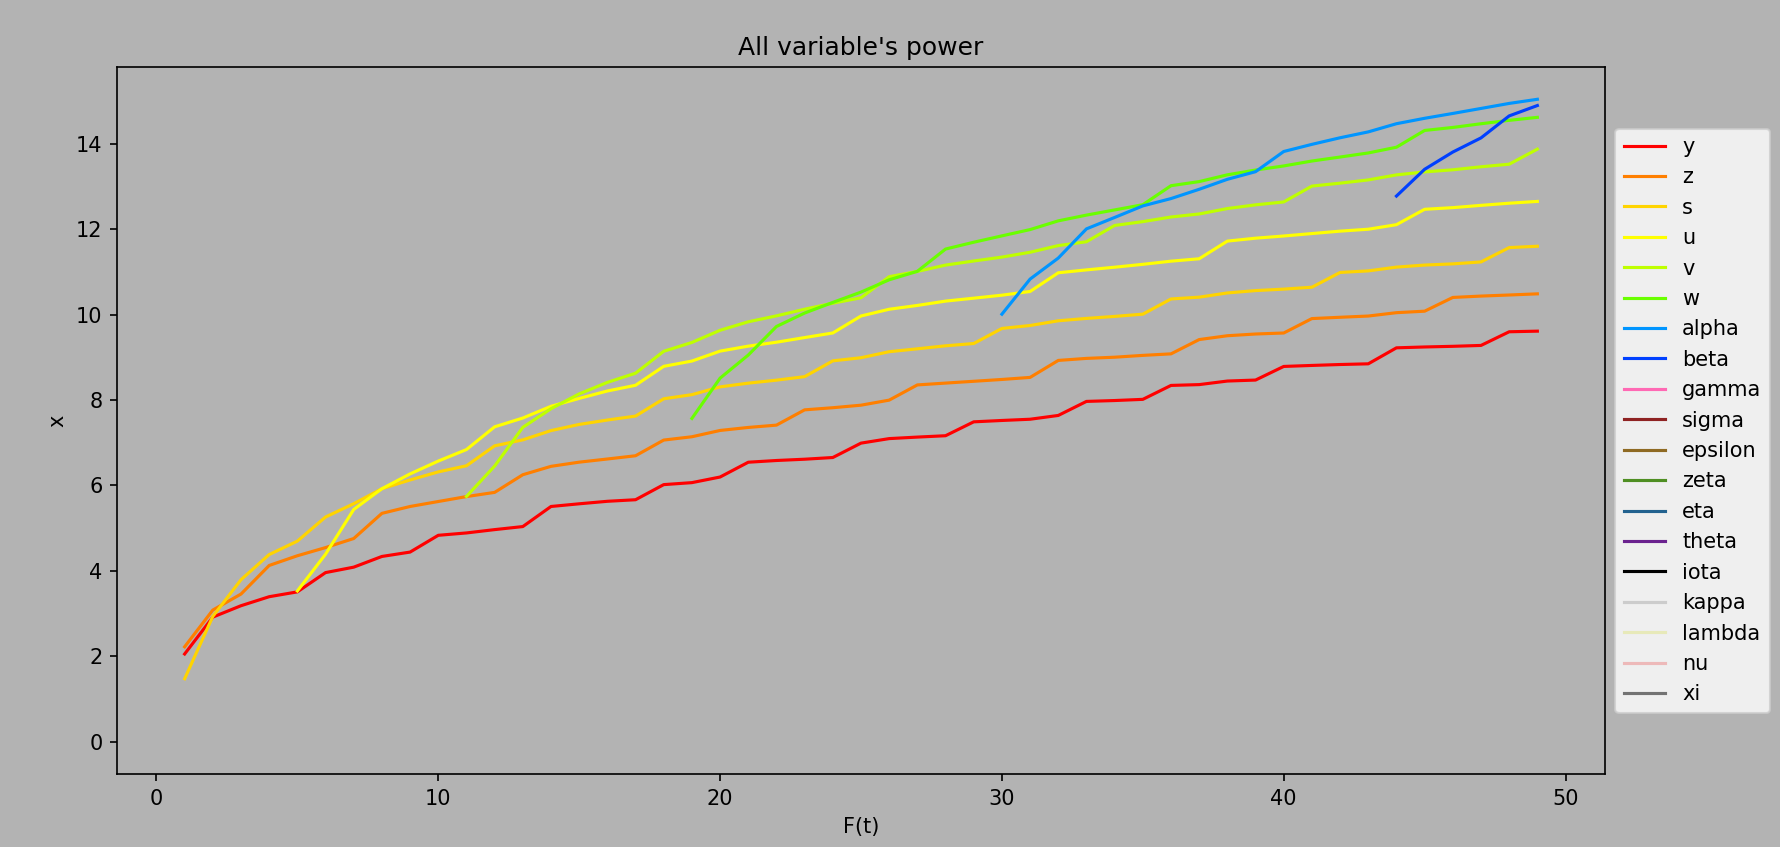
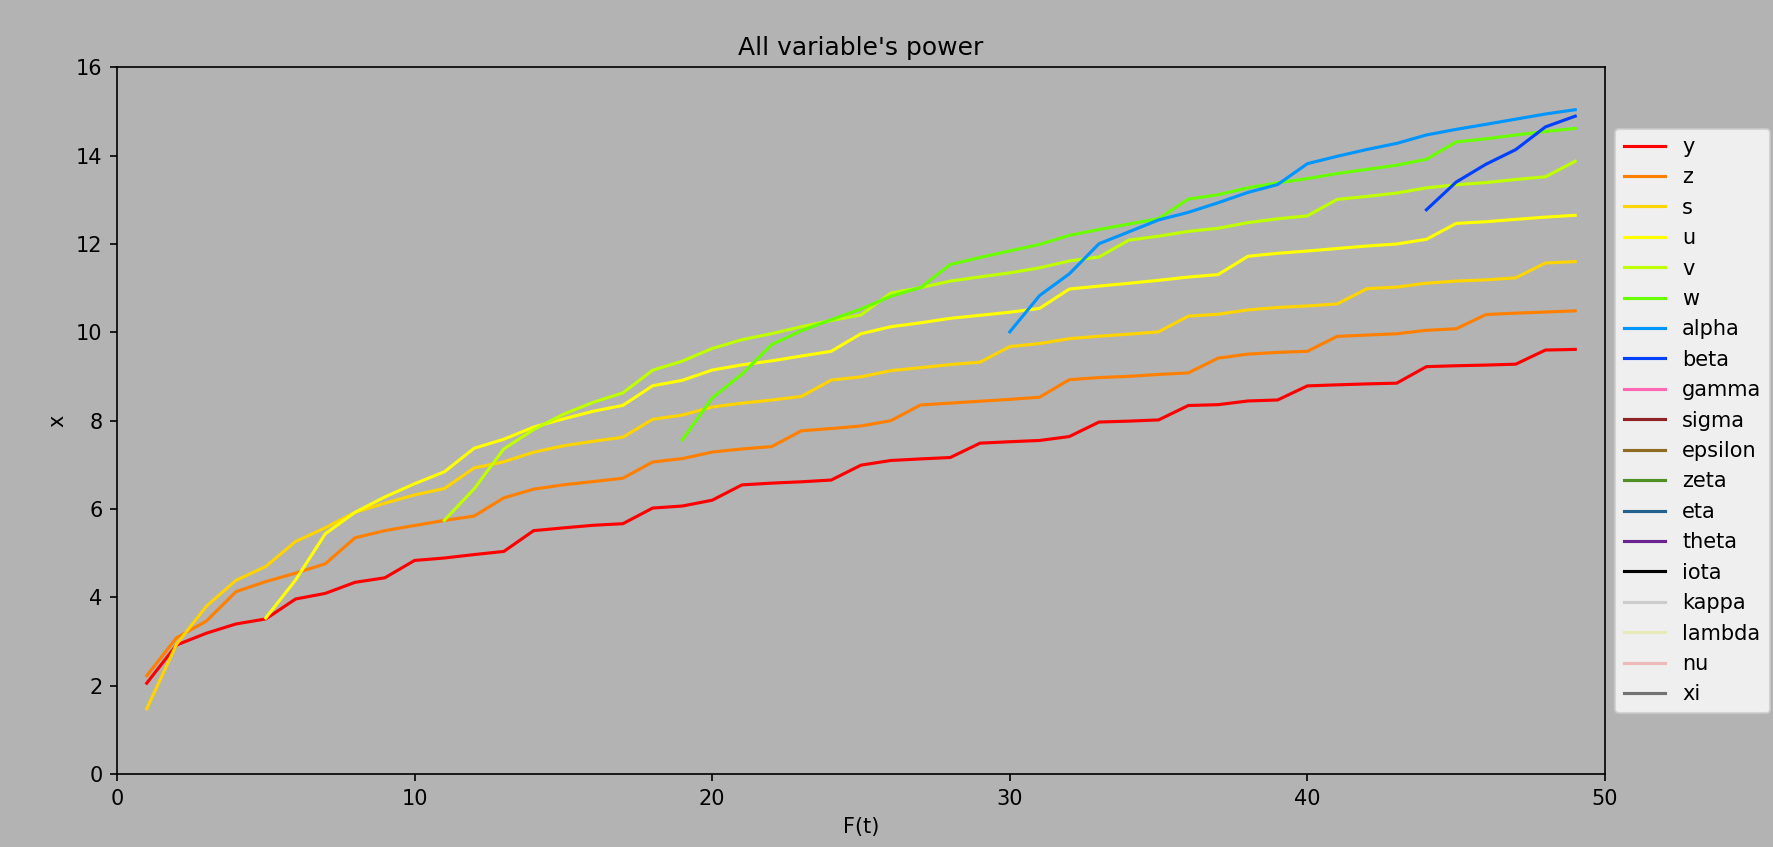
y power variable power section complete

diff --git a/src/view/advanced-concepts/variable-power.md b/src/view/advanced-concepts/variable-power.md
@@ -3,7 +3,7 @@ title: "Visualizing Variable Power Throughout the Game"
 description: "Using graphs to show how the power of variables changes throughout the purchase of y power upgrades, the psi3 upgrades, why we buy y during recovery, and the eventual domination of the y variable."
 author: "spqcey"
 contributors: "the Amazing Community"
-draft: true
+draft: false
 order: 3
 ---
 
@@ -12,7 +12,7 @@ Let's start by defining which variables we're discussing. We will discuss the ma
 We can split the progression through the game into three sections.<br><br>
 The first section, from the start to ee4310, includes the unlocking of all of the variables, which finishes with the unlocking of \\(\xi\\) at ee791. It also includes the purchase of \\(y\\) power upgrades, of which we will discuss more later.<br><br>
 The second section is from ee9160 to ee47362, and is the range when we buy supremacy upgrades known as "psi3" upgrades.<br><br>
-The final section is after ee47362, where we see the title of strongest variable change a few more times before it changes for the final time at ~ee70000.
+The final section is after ee47362, where we see the title of strongest variable change hands a few more times with a final change at ~ee70000.
 
 ### Program
 To visualize the power of each variable throughout the game, I've created a script in Python that can compute the strength of all variables at any given \\(f(t)\\). It does this by simulating the purchase of all of the variable levels it can, stopping when it costs more than can be afforded. It then computes the power the variable has at the level it has. It does this for every variable.<br><br>
@@ -114,17 +114,55 @@ Here's a graph of variable power up to a \\(f(t)\\) of ee50. The initial purchas
 ![Variable power up to ee50](/images/variable-power/ee50.png)
 ###### Computed every ee1 from ee1 to ee50.
 
+And here's a graph with the same \\(f(t)\\) range, but instead of the power of each variable, it graphs the percentage of total power each variable has at any given \\(f(t)\\)
+
+![Percentage variable power up to ee50](/images/variable-power/ee50_2.png)
+###### Computed every ee1 from ee1 to ee50.
+
 And here's a graph of variable power up to the purchase of the final variable at ee791:
 
 ![Variable power up to ee850](/images/variable-power/ee850.png)
 ###### Computed every ee1 from ee1 to ee850.
 
+And the percentage graph:
+
+![Percentage variable power up to ee850](/images/variable-power/ee850_2.png)
+###### Computed every ee1 from ee1 to ee850.
+A bit more spiky ;)
+
 You may be wondering about the abrupt jumps in the power of all of variables. Well, that's what we'll discuss in our next section, about the \\(y\\) power upgrades.
 
 ## y Power Upgrades (ee50 - ee4310)
+After we supremacy for the first time at ee50, we are given a currency \\(\psi\\) (psi). With this new currency, we can buy upgrades to increase the exponent on \\(y\\). Each upgrade raises the exponent by \\(0.2\\), so the initial supremacy at ee50 turns \\(y\\) into \\(y^1.2\\). The upgrades continue all the way up to \\(y^9.0\\) at ~ee4310.<br><br>
+Because the power each variable has is propagated down all of its lower variables (ex. z -> y -> x), the change in exponent affects how strong all of the variables are. <br><br>
+The cost of each upgrade from \\(y^1.2\\) through \\(y^1.8\\) is calculated using this formula:
+
+\\(\psi = 1.5 \times 2^{2(x-1)}\\)
+
+The cost model changes after this, and from \\(y^2.0\\) through \\(y^4.0\\) is this formula:
+
+\\(\psi = 0.488281 \times 2^{3(x-1)}\\)
+
+The cost model changes one final time, and from \\(y^4.2\\) to \\(y^9.0\\) is this formula:
+
+\\(\psi = 7.94093e-8 \times 2^{5(x-1)}\\)
+
+With all of these calculations in place, here is the new variable power graph, now ranging up to ee5000:
+
+![Variable power up to ee5000](/images/variable-power/ee5000.png)
+###### Computed every ee1 from ee1 to ee5000.
+
+And the percentage total power for each variable:
+
+![Percentage variable power up to ee5000](/images/variable-power/ee5000_2.png)
+###### Computed every ee1 from ee1 to ee5000.
+Very spiky!
 
 ## Psi3 Upgrades (ee9160 - ee47362)
 
 ## Post-Psi3 Variable Power (ee47362+)
 
 ## Why We Buy y During Endgame Graduation Recovery
+
+## Additional Graphs
+(will include the graphs I have with percentage power for each variable)
